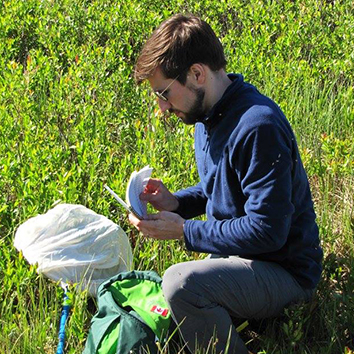
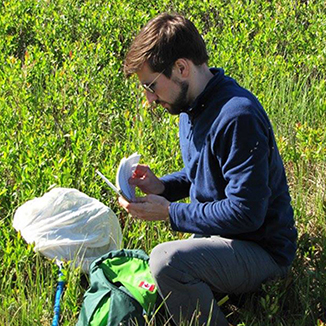
adjusted image sizes in publication, opacity added to sections

diff --git a/index.html b/index.html
@@ -60,8 +60,8 @@
 					</div>
 				</div>
 				<div class="centering-text--header">
-					<h1>Spencer Monckton</h1>
-					<h2>phd does school things</h2>
+					<h1>Spencer K. Monckton</h1>
+					<h2>Entomologist & Systematist</h2>
 				</div>
 			</header>
 			<!-- header ends -->
@@ -78,7 +78,7 @@
 					<div class="about-me--image">
 						<img src="public/styles/assets/profilephoto.jpg" alt="Photo of Spencer Monckton">
 					</div>
-					<div class="about-me--text">
+					<div class="about-me--text section--text">
 						<p>I am a Ph.D. Student in Biology at York University, in Toronto, Ontario, Canada. I'm an entomologist and systematist, and
 						I'm interested in just about anything to do with biodiversity and evolution - especially insect taxonomy, diversity, and
 						biogeography. Hymenoptera are my specialty. I'm also a quick & resourceful learner, an enthusiastic problem-solver, and I
@@ -136,12 +136,12 @@
 							</p>
 						</div>
 						<div class="publication--section--img">
-							<img src="public/styles/assets/Packer.png">
+							<img src="public/styles/assets/monckton2016.png">
 						</div>
 					</div>
 					<div class="publication--section-left">
 						<div class="publication--section--img">
-							<img src="public/styles/assets/Packer.png">
+							<img src="public/styles/assets/monckton2014.png">
 						</div>
 						<div class="publication--section-left--text">
 							<p>
@@ -157,13 +157,13 @@
 							</p>
 						</div>
 						<div class="publication--section--img">
-							<img src="public/styles/assets/Packer.png">
+							<img src="public/styles/assets/valentaetal2016.png">
 						</div>
 					</div>
 
 					<div class="publication--section-left">
 						<div class="publication--section--img">
-							<img src="public/styles/assets/Packer.png">
+							<img src="public/styles/assets/valentaetal2015.png">
 						</div>
 						<div class="publication--section-left--text">
 							<p>
@@ -182,9 +182,15 @@
 					</div>
 				</div>
 				<div class="education--text">
-					<p><span class="education--levels">Ph.D.</span> Biology In progress. York University.</p>
+					<div class="education--text-indv">
+						<div>
+						<p class="education--levels">Ph.D. </p>
+						</div> 
+						<div class="education--text-details"><p>In progress.</p><p> Biology. York University.</p></div>
+					</div>
+
 					<p><span class="education--levels">M.Sc.</span> Biology 2015. York University.</p> 
-					<p><span class="education--levels">B.Sc. (Hon.)</span> Biology 2011. University of
+					<p><span class="education--levels">B.Sc.</span>  (Hon.) Biology 2011. University of
 					Ottawa.</p>
 				</div>
 			</section>

diff --git a/public/styles/style.css b/public/styles/style.css
@@ -288,17 +288,17 @@ section {
 .centering-text--header {
   text-align: center;
   margin-top: 5vh;
-  background: #f5f6f7;
+  background: rgba(245, 246, 247, 0.7);
   padding: 15vh 0; }
   .centering-text--header h1 {
-    font-size: 45px;
-    font-size: 4.5rem;
+    font-size: 55px;
+    font-size: 5.5rem;
     margin-bottom: 0;
     letter-spacing: 2px; }
   .centering-text--header h2 {
     text-transform: uppercase;
-    font-size: 35px;
-    font-size: 3.5rem;
+    font-size: 30px;
+    font-size: 3rem;
     margin-top: 10px;
     letter-spacing: 1.5px; }
 
@@ -344,10 +344,11 @@ section {
       justify-content: space-around; }
 
 .about-me--image {
-  width: 30%; }
+  -ms-flex-negative: 0;
+      flex-shrink: 0; }
 
 .about-me--text {
-  width: 60%; }
+  max-width: 560px; }
   .about-me--text a {
     display: inline-block;
     border: 3px solid #344055;
@@ -355,8 +356,8 @@ section {
 
 .education--levels {
   font-weight: 700;
-  font-size: 19px;
-  font-size: 1.9rem; }
+  font-size: 22px;
+  font-size: 2.2rem; }
 
 .education--text {
   display: -webkit-box;
@@ -369,6 +370,24 @@ section {
   -webkit-box-align: center;
       -ms-flex-align: center;
           align-items: center; }
+
+.education--text-indv {
+  display: -webkit-box;
+  display: -ms-flexbox;
+  display: flex; }
+
+.education--text-details {
+  display: -webkit-box;
+  display: -ms-flexbox;
+  display: flex;
+  -webkit-box-orient: vertical;
+  -webkit-box-direction: normal;
+      -ms-flex-direction: column;
+          flex-direction: column;
+  margin-left: 40px; }
+  .education--text-details p {
+    margin: 0;
+    padding: 0; }
 
 .publication--section-left, .publication--section-right {
   display: -webkit-box;
@@ -388,7 +407,7 @@ section {
 .publication--section--img {
   -ms-flex-negative: 0;
       flex-shrink: 0;
-  max-width: 400px; }
+  max-width: 200px; }
 
 .publication--section-left--text, .publication--section-right--text {
   max-width: 600px;
@@ -402,13 +421,16 @@ section {
   margin-left: 20px; }
 
 footer {
-  padding: 1px; }
+  padding: 1px;
+  display: -webkit-box;
+  display: -ms-flexbox;
+  display: flex;
+  -webkit-box-pack: center;
+      -ms-flex-pack: center;
+          justify-content: center; }
 
 footer a {
-  display: block;
-  text-align: center;
-  border: 1px solid #f5f6f7;
-  border-bottom: none;
+  display: inline-block;
   padding: 10px 0;
   font-size: 10px;
   font-size: 1rem;

diff --git a/dev/styles/_header.scss b/dev/styles/_header.scss
@@ -1,16 +1,16 @@
 .centering-text--header {
     text-align: center;
     margin-top: 5vh;
-    background: $light-grey;
+    background: rgba($light-grey,0.7);
     padding: 15vh 0;
     h1 {
-        @include font-size-value(45);
+        @include font-size-value(55);
         margin-bottom: 0;
         letter-spacing: 2px;
     }
     h2 {
         text-transform: uppercase;
-        @include font-size-value(35);
+        @include font-size-value(30);
         margin-top: 10px;
         letter-spacing: 1.5px;
     }

diff --git a/dev/styles/_education.scss b/dev/styles/_education.scss
@@ -1,10 +1,24 @@
 .education--levels {
     font-weight: 700;
-    @include font-size-value(19)
+    @include font-size-value(22)
 }
 
 .education--text {
     display: flex;
     flex-direction: column;
     align-items: center;
+}
+
+.education--text-indv {
+    display: flex;
+}
+
+.education--text-details {
+    display: flex;
+    flex-direction: column;
+    margin-left: 40px;
+    p {
+        margin: 0;
+        padding: 0;
+    }
 }

diff --git a/dev/styles/_footer.scss b/dev/styles/_footer.scss
@@ -1,12 +1,11 @@
 footer {
     padding: 1px;
+    display: flex;
+    justify-content: center;
 }
 
 footer a {
-    display: block;
-    text-align: center;
-    border: 1px solid $light-grey;
-    border-bottom: none;
+    display: inline-block;
     padding: 10px 0;
     @include font-size-value(10);
     transition: 0.4s;

diff --git a/dev/styles/_about.scss b/dev/styles/_about.scss
@@ -4,11 +4,11 @@
 }
 
 .about-me--image {
-    width: 30%;
+    flex-shrink: 0;
 }
 
 .about-me--text {
-    width: 60%;
+    max-width: 560px;
     a {
         display: inline-block;
         border: 3px solid $black;

diff --git a/dev/styles/_publications.scss b/dev/styles/_publications.scss
@@ -13,7 +13,7 @@
 
 .publication--section--img {
     flex-shrink: 0; 
-    max-width: 400px;
+    max-width: 200px;
 }
 
 .publication--section-left--text, .publication--section-right--text {
